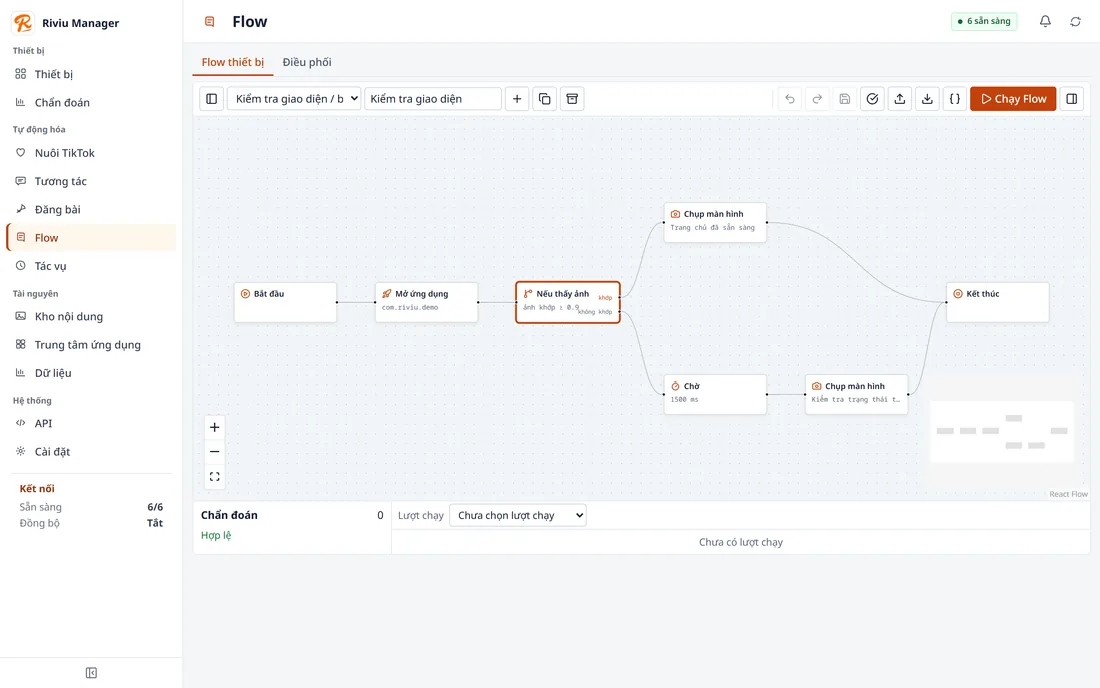
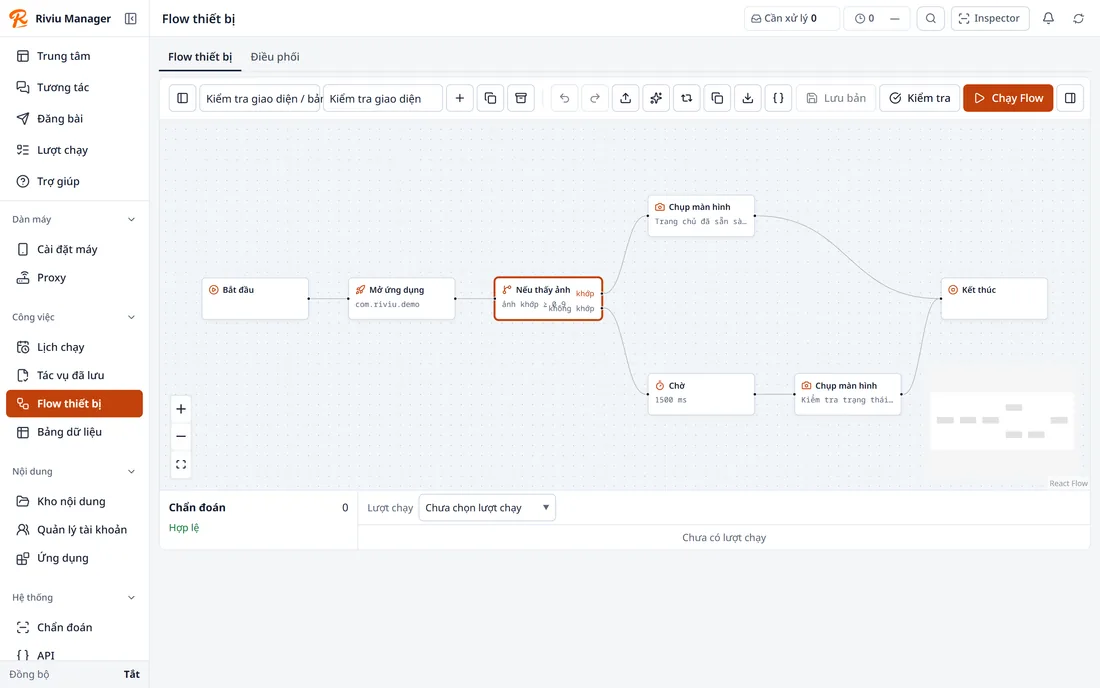
Recapture Riviu Manager without the nurture module or mock badges
The fixtures now report USB/Wi-Fi connections instead of "mock", and the
capture hides the TikTok nurture entry before each screenshot (recorded as
`presentation` in capture.json). The script follows the current manager
source: --manager-only skips the archived Reports app, a resolve hook loads
its extensionless TypeScript fixtures, and the previews are sized to fit
six devices in one row. Image revision bumped to 20261027-1.

diff --git a/apps/web/next.config.js b/apps/web/next.config.js
@@ -8,6 +8,7 @@ const nextConfig = {
     localPatterns: [
       { pathname: "/**", search: "" },
       { pathname: "/projects/**", search: "?v=20260907-2" },
+      { pathname: "/projects/**", search: "?v=20261027-1" },
     ],
   },
 };
